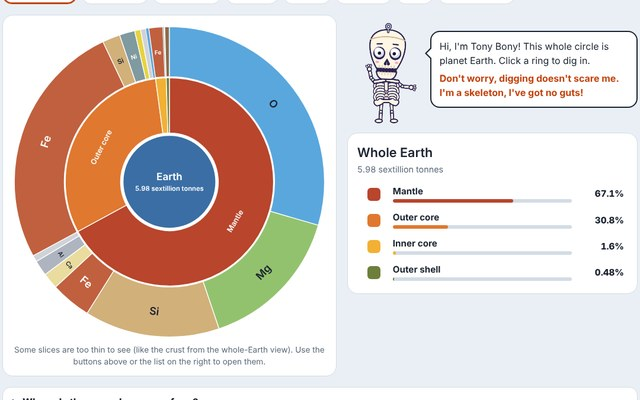
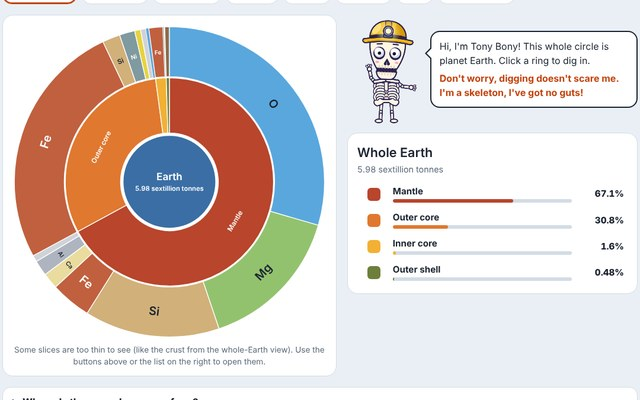
What's Earth Made Of?: Tony gets a miner's hard hat with headlamp
Claude-Session: https://claude.ai/code/session_01DxcoVJ2zMqfTS6xq2mHhUz

diff --git a/demos/earth-elements.html b/demos/earth-elements.html
@@ -192,6 +192,38 @@ const Tony=(function(){
   function harness(ctx){ctx.lineCap='round';
     for(const p of [[[80,150],[120,198]],[[120,150],[80,198]]]){ln(ctx,p[0][0],p[0][1],p[1][0],p[1][1],INK,7.5);ln(ctx,p[0][0],p[0][1],p[1][0],p[1][1],'#e5232f',4.2);}
     ctx.beginPath();ctx.arc(100,174,4.4,0,TAU);ctx.fillStyle='#ffd166';ctx.fill();ctx.lineWidth=2;ctx.strokeStyle=INK;ctx.stroke();}
+
+  // classic miner's hard hat with headlamp (drawn in head space, so it nods with Tony)
+  const HAT_Y='#f5b919',HAT_D='#d99a07',HAT_L='#ffe07a';
+  const DOME=new Path2D('M57 53 C55 24 74 7 100 7 C126 7 145 24 143 53 Z');
+  const BRIM=new Path2D('M42 52 Q100 40 158 52 Q162 59 153 61 Q100 51 47 61 Q38 59 42 52 Z');
+  const RIDGE=new Path2D('M93 8.5 Q100 6.5 107 8.5 L107.5 30 L92.5 30 Z');
+  function mineHat(ctx,P){
+    ctx.save();ctx.lineJoin='round';ctx.lineCap='round';
+    // dome
+    ctx.fillStyle=HAT_Y;ctx.fill(DOME);
+    ctx.save();ctx.clip(DOME);
+    ctx.fillStyle=HAT_D;ctx.beginPath();ctx.ellipse(134,40,18,34,-.15,0,TAU);ctx.fill();   // shadow side
+    ctx.fillStyle=HAT_L;ctx.beginPath();ctx.ellipse(72,26,8,15,.55,0,TAU);ctx.fill();      // shine
+    ctx.restore();
+    ctx.fillStyle=HAT_D;ctx.fill(RIDGE);ctx.lineWidth=2;ctx.strokeStyle=INK;ctx.stroke(RIDGE);
+    ctx.lineWidth=3;ctx.strokeStyle=INK;ctx.stroke(DOME);
+    // headband strap
+    ctx.beginPath();ctx.moveTo(57.5,44);ctx.quadraticCurveTo(100,34,142.5,44);ctx.lineTo(143,51);ctx.quadraticCurveTo(100,41,57,51);ctx.closePath();
+    ctx.fillStyle='#2b2733';ctx.fill();ctx.lineWidth=2;ctx.stroke();
+    // brim
+    ctx.fillStyle=HAT_Y;ctx.fill(BRIM);ctx.lineWidth=3;ctx.strokeStyle=INK;ctx.stroke(BRIM);
+    ctx.strokeStyle=HAT_D;ctx.lineWidth=2;ctx.beginPath();ctx.moveTo(52,57.5);ctx.quadraticCurveTo(100,48.5,148,57.5);ctx.stroke();
+    // lamp glow
+    const g=ctx.createRadialGradient(100,33,4,100,33,30);g.addColorStop(0,'rgba(255,246,170,.85)');g.addColorStop(1,'rgba(255,246,170,0)');
+    ctx.fillStyle=g;ctx.beginPath();ctx.arc(100,33,30,0,TAU);ctx.fill();
+    // lamp: mount, rim, lens
+    rr(ctx,89,38,22,9,3);ctx.fillStyle='#5d6478';ctx.fill();ctx.lineWidth=2;ctx.strokeStyle=INK;ctx.stroke();
+    ctx.beginPath();ctx.arc(100,31,11.5,0,TAU);ctx.fillStyle='#aeb6c7';ctx.fill();ctx.lineWidth=2.6;ctx.stroke();
+    ctx.beginPath();ctx.arc(100,31,7.6,0,TAU);ctx.fillStyle='#fff7c2';ctx.fill();ctx.lineWidth=1.6;ctx.stroke();
+    ctx.fillStyle='#ffffff';ctx.beginPath();ctx.arc(97.3,28.4,2.4,0,TAU);ctx.fill();
+    ctx.restore();
+  }
   function head(ctx,P){
     ctx.save();rot(ctx,[100,140],P.head||0);
     const jd=(P.jaw||0)*26;ctx.fillStyle=INK;ctx.fillRect(76,118,48,7+jd);
@@ -207,8 +239,8 @@ const Tony=(function(){
     ctx.globalAlpha=.75;ctx.fillStyle='#ff8fb5';ctx.beginPath();ctx.ellipse(77,105,4.5,2.8,0,0,TAU);ctx.ellipse(123,105,4.5,2.8,0,0,TAU);ctx.fill();ctx.globalAlpha=1;
     ctx.save();ctx.translate(0,jd);ctx.fillStyle=BONE;ctx.fill(JAW);ctx.lineWidth=3;ctx.strokeStyle=INK;ctx.stroke(JAW);
     ctx.strokeStyle='#d9c9ac';ctx.lineWidth=2;ctx.beginPath();[[82.5,5],[89.5,7],[96.5,7],[103.5,7],[110.5,7],[117.5,5]].forEach(a=>{ctx.moveTo(a[0],125);ctx.lineTo(a[0],125+a[1]);});ctx.stroke();ctx.restore();
-    ln(ctx,100,33,100,25,INK,6);ctx.beginPath();ctx.arc(100,20,5,0,TAU);ctx.lineWidth=6;ctx.strokeStyle=INK;ctx.stroke();
-    ln(ctx,100,33,100,25,'#a9b1c4',2.8);ctx.beginPath();ctx.arc(100,20,5,0,TAU);ctx.lineWidth=2.8;ctx.strokeStyle='#a9b1c4';ctx.stroke();
+    if(!P.hat){ln(ctx,100,33,100,25,INK,6);ctx.beginPath();ctx.arc(100,20,5,0,TAU);ctx.lineWidth=6;ctx.strokeStyle=INK;ctx.stroke();
+    ln(ctx,100,33,100,25,'#a9b1c4',2.8);ctx.beginPath();ctx.arc(100,20,5,0,TAU);ctx.lineWidth=2.8;ctx.strokeStyle='#a9b1c4';ctx.stroke();}
     const pu=P.pupil||[0,0],ps=P.pupilScale||1;
     [[81,83,78.8,82.5],[119,83,116.8,117.5]].forEach(e=>{
       ctx.beginPath();ctx.arc(e[0],e[1],12.5,0,TAU);ctx.fillStyle='#d3d8ec';ctx.fill();ctx.lineWidth=2.5;ctx.strokeStyle=INK;ctx.stroke();
@@ -218,9 +250,10 @@ const Tony=(function(){
     ctx.lineCap='round';ctx.strokeStyle=INK;ctx.lineWidth=3;
     ctx.save();rot(ctx,[81,62],P.browL||0);ctx.beginPath();ctx.moveTo(75,62.5);ctx.lineTo(87,61.5);ctx.stroke();ctx.restore();
     ctx.save();rot(ctx,[119,62],P.browR||0);ctx.beginPath();ctx.moveTo(125,62.5);ctx.lineTo(113,61.5);ctx.stroke();ctx.restore();
+    if(P.hat)mineHat(ctx,P);
     ctx.restore();
   }
-  function blank(){return {lean:0,head:0,jaw:0,pupil:[0,0],pupilScale:1,browL:0,browR:0,legL:[0,0],legR:[0,0],armL:[0,0,0],armR:[0,0,0],harness:false};}
+  function blank(){return {lean:0,head:0,jaw:0,pupil:[0,0],pupilScale:1,browL:0,browR:0,legL:[0,0],legR:[0,0],armL:[0,0,0],armR:[0,0,0],harness:false,hat:true};}
   function idle(t){const P=blank();P.armL=[Math.sin(t*1.4)*.08+.1,.5,0];P.head=Math.sin(t*1.7)*.05;P.lean=Math.sin(t*1.3)*.015;
     P.jaw=.04+Math.max(0,Math.sin(t*2.1))*.05;P.pupil=[Math.sin(t*.8)*2,Math.cos(t*.6)];return P;}
   function talk(t){const P=idle(t);P.jaw=.1+Math.abs(Math.sin(t*11))*.22;P.armR=[-.35+Math.sin(t*3)*.15,-.5,0];return P;}
